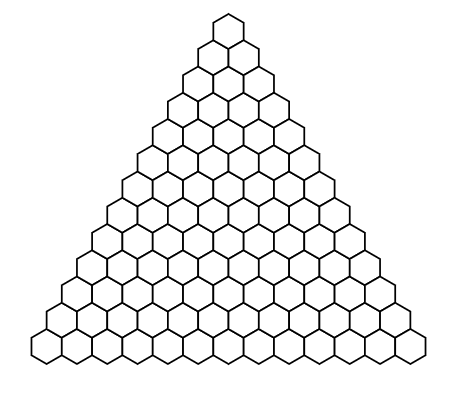
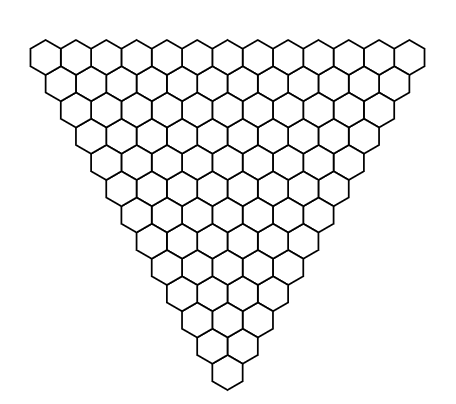
Fixed triangle pointing down grid example image src.

diff --git a/README.md b/README.md
@@ -104,22 +104,22 @@ class Orientation {
 <li>Pointing Up (triangleUp)
   <details>
   <summary>Example</summary>
-    <img width="200" src="images/triangle_down_example.png" alt="Evenly sized cells grid example."> <br>
+    <img width="200" src="images/triangle_up_example.png" alt="Triangle grid pointing up example."> <br>
   </details>
 <li>Pointing Down (triangleDown)
     <details>
     <summary>Example</summary>
-    <img width="200" src="images/triangle_up_example.png" alt="Evenly sized cells grid example."> <br>
+    <img width="200" src="images/triangle_down_example.png" alt="Triangle grid pointing down example."> <br>
   </details>
 <li>Pointing Left (triangleLeft)
     <details>
     <summary>Example</summary>
-    <img width="200" src="images/triangle_left_example.png" alt="Evenly sized cells grid example."> <br>
+    <img width="200" src="images/triangle_left_example.png" alt="Triangle grid pointing left example."> <br>
   </details>
 <li>Pointing Right (triangleRight)
     <details>
     <summary>Example</summary>
-    <img width="200" src="images/triangle_right_example.png" alt="Evenly sized cells grid example."> <br>
+    <img width="200" src="images/triangle_right_example.png" alt="Triangle grid pointing right example."> <br>
   </details>
 </ul>
 </details>
